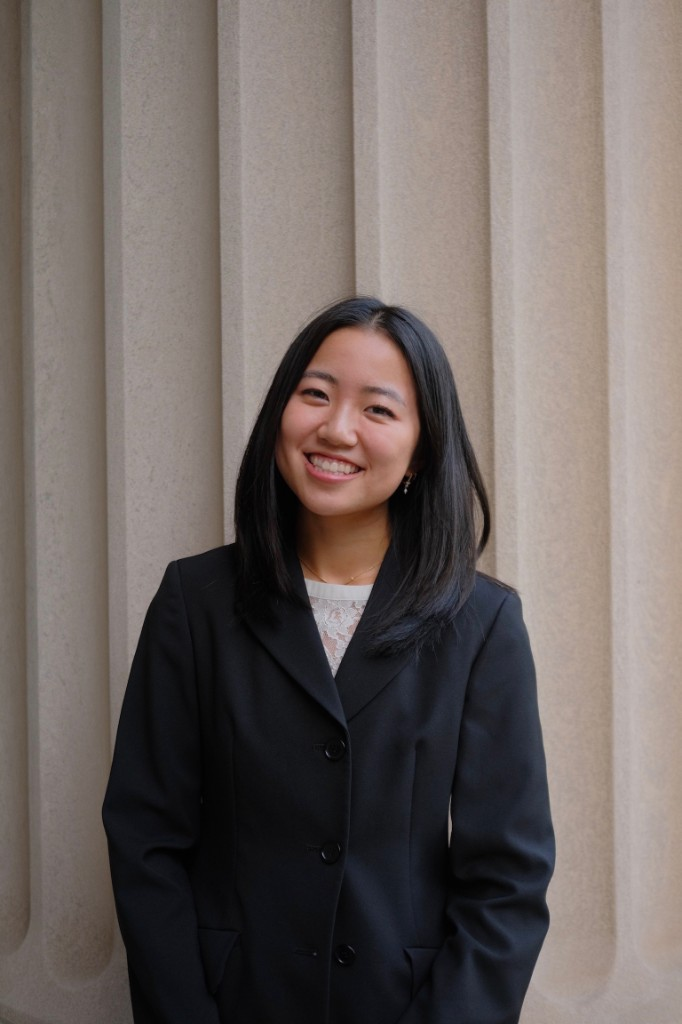
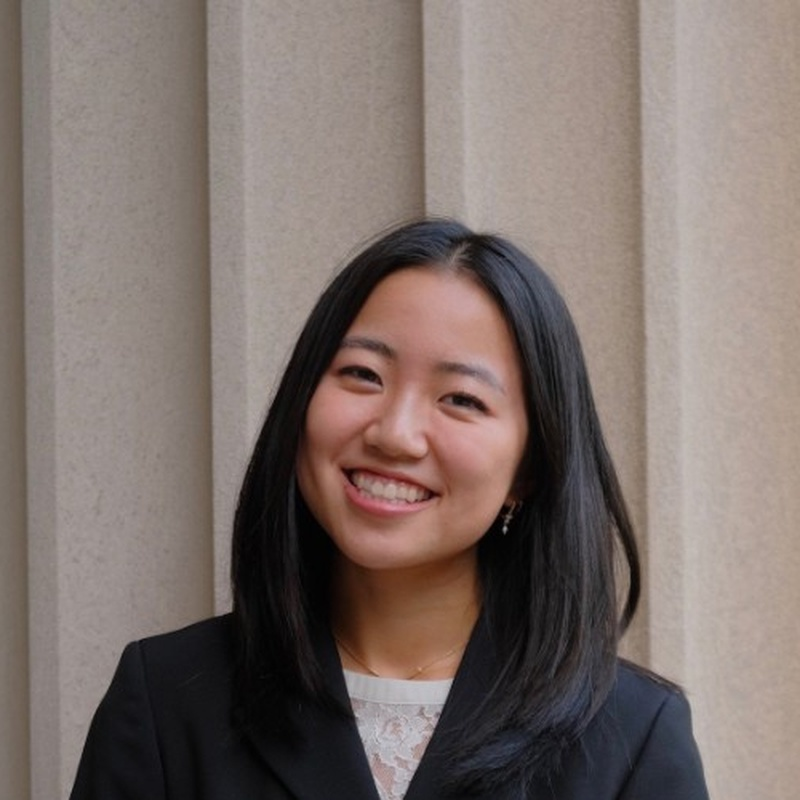
Recrop exec portraits and drop unused public images.
Fix Alicia and GK framing, use Andy’s new photo, remove leftover role art, and run local dev without Turbopack so Google fonts load.

diff --git a/app/exec/page.tsx b/app/exec/page.tsx
@@ -64,8 +64,6 @@ const profiles = {
 	"Alicia Ji": {
 		class: "27",
 		photo: "/images/exec/alicia_ji.jpg",
-		photo_position: "50% 30%",
-		photo_scale: 1.15,
 		major: "Artificial Intelligence and Decision Making (6-4)",
 		involved_in: "Sigma Kappa, MINCE, Baker Foundation",
 		fav_memory: "Organizing & cooking for our annual Grains of Rice event!!",
@@ -73,8 +71,6 @@ const profiles = {
 	"Gyeongwu Kim (GK)": {
 		class: "27",
 		photo: "/images/exec/gyeongwu_kim.jpg",
-		photo_position: "38% 36%",
-		photo_scale: 1.45,
 		major: "Computer Science and Engineering (6-3)",
 		involved_in: "Football, Phi Beta Epsilon",
 		fav_memory: "Nightmaaarket",
